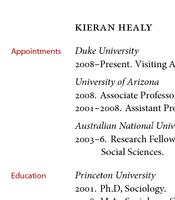
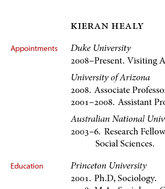
Adding a thumbnail image of the vita to the front page; with css to style it.

diff --git a/index.html b/index.html
@@ -94,7 +94,11 @@
 		<div class="gradient">
 			<a name="vita"></a>
 				<h2>My <a href="http://www.kieranhealy.org/vita.pdf" title="My CV">Vita</a></h2>
-				<h3>Curriculum Vitae in <a href="http://www.kieranhealy.org/vita.pdf" title="My CV"> PDF format</a>. </h3>
+				<div class="figure">
+				<a href="http://www.kieranhealy.org/vita.pdf" title=""><img src="images/vita-thumb.png"></a>
+				<div class="caption"><a href="http://www.kieranhealy.org/vita.pdf" title="CV">Curriculum Vitae</a> in PDF format.</div>
+				</div>
+				
 		</div>                                                            
 
 		</div>

diff --git a/css/html.css b/css/html.css
@@ -368,11 +368,18 @@ img.floatLeft {
 }
 
 a img {  
-  border: 2px solid #8BE6FA;
+  border: 1px solid #CCC;
 }
 
 a:hover img {  
   /* Fixes IE bug - IE doesn't correctly apply the style on a:hover so need to mask it */
-  border: 2px solid #FFF !important;
-  border: 2px solid #8BE6FA;
-}
+  border: 1px solid #FFF !important;
+  border: 1px solid #CCC;
+}   
+
+.figure .caption {  align: right;
+                    font-size: 80%;
+                  text-align: left; }
+
+
+
